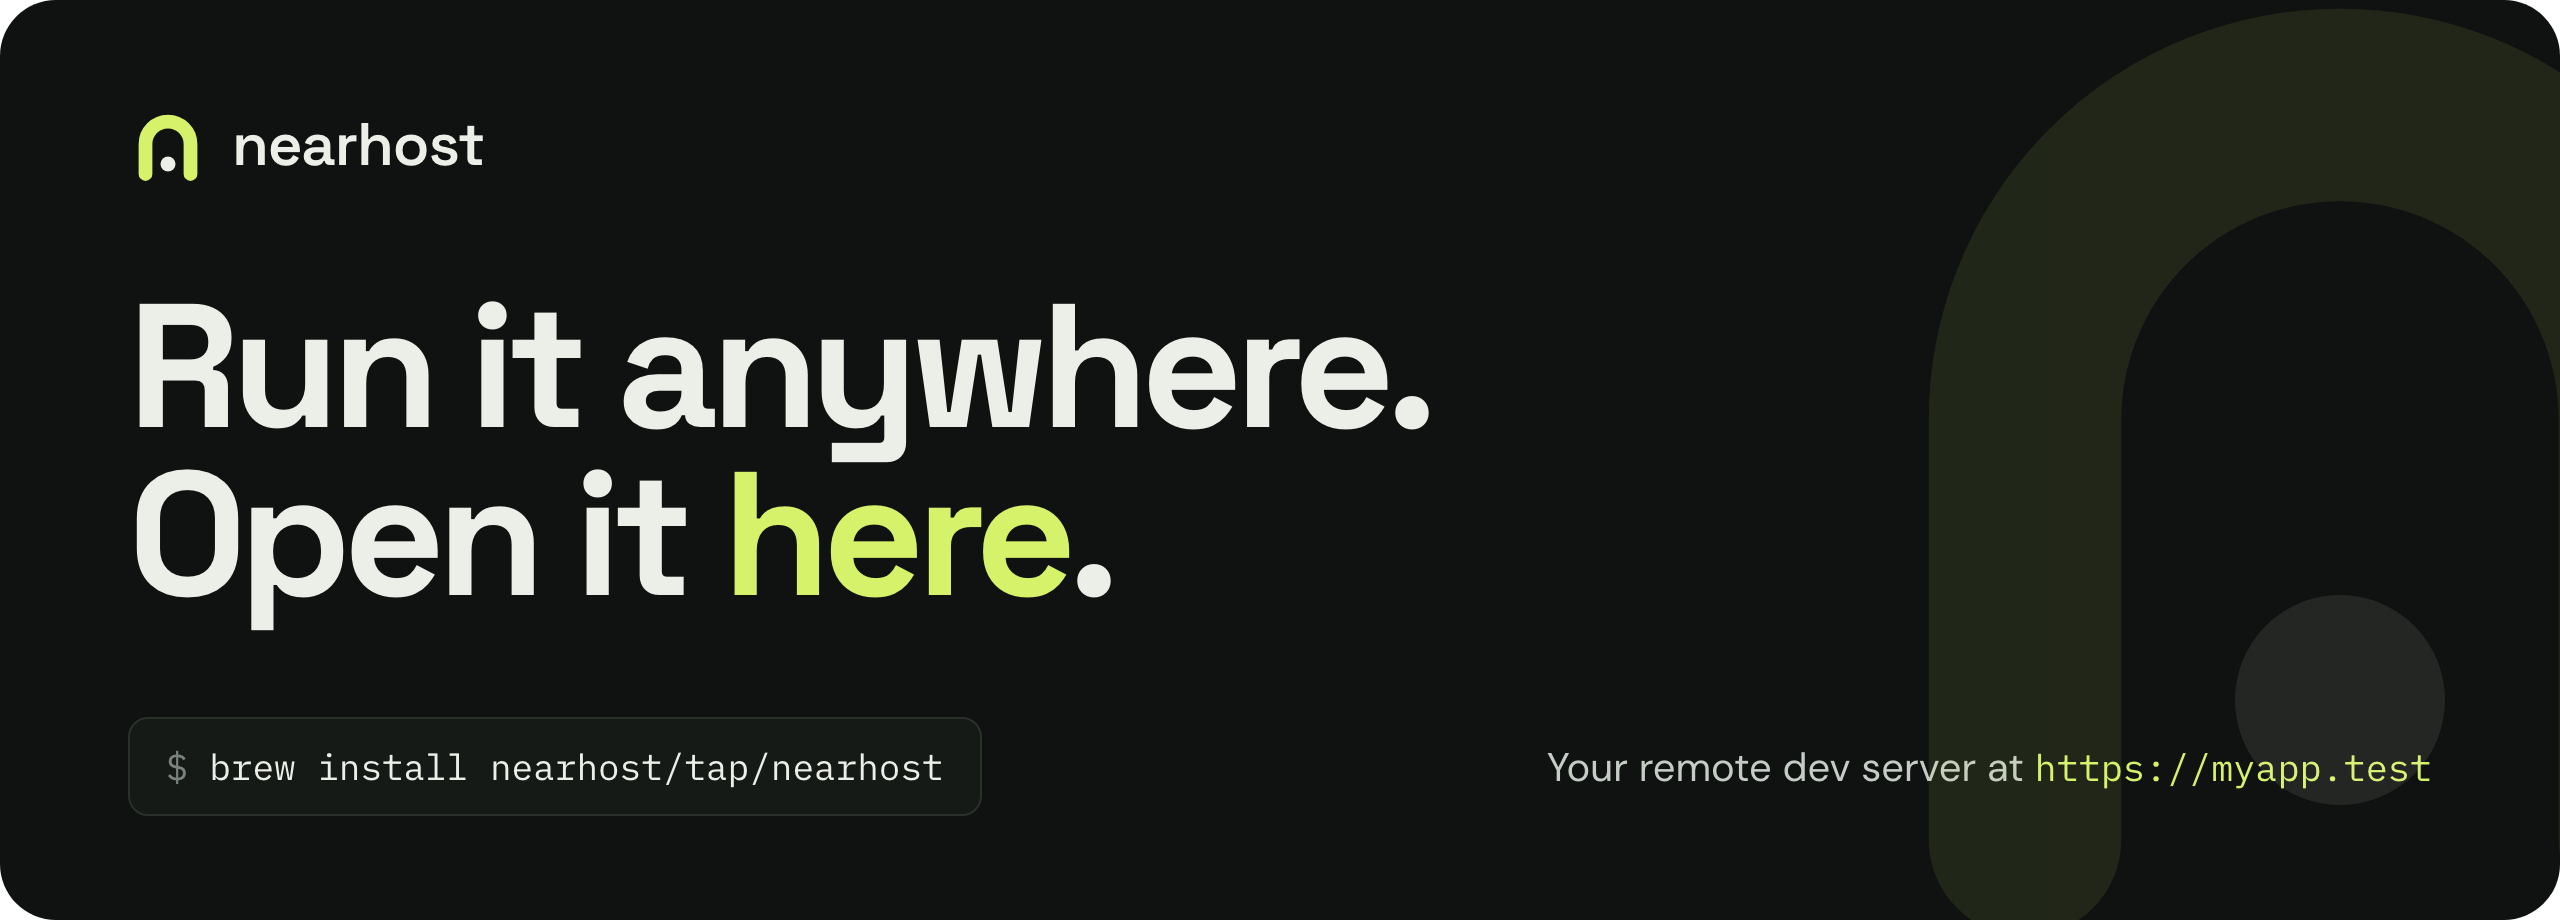
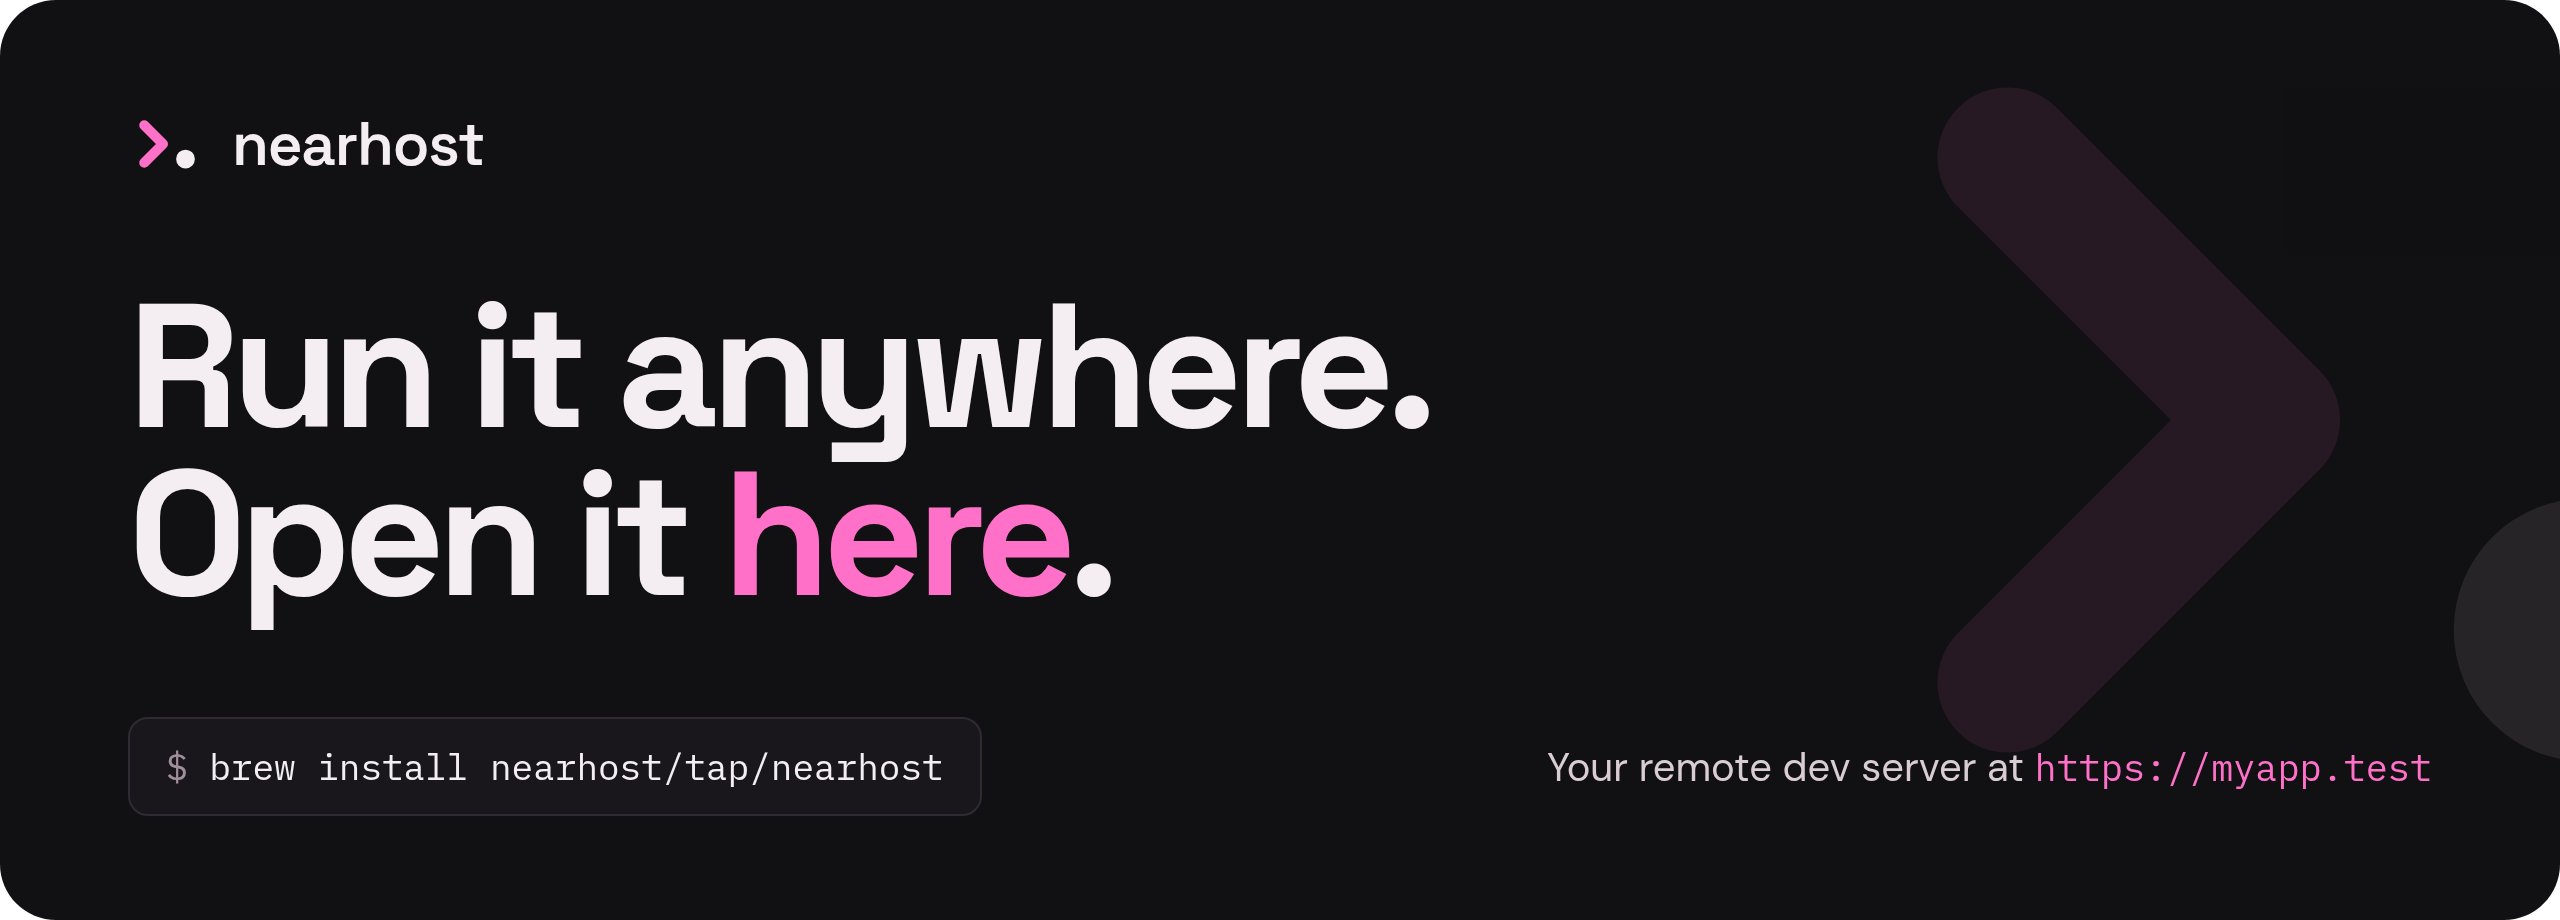
feat: README headers and screenshot in the new colours

diff --git a/assets/header.html b/assets/header.html
@@ -29,13 +29,13 @@
           format('woff2');
       }
       :root {
-        --ground: #0f1210;
-        --surface: #161a17;
-        --line: #2a312b;
-        --text: #ecefe8;
-        --body: #c5ccc6;
-        --faint: #7a837b;
-        --beacon: #d6f26b;
+        --ground: #111013;
+        --surface: #19171c;
+        --line: #2f2a33;
+        --text: #f4eef2;
+        --body: #d9ccd5;
+        --faint: #a08f9b;
+        --beacon: #ff70c8;
       }
       * {
         box-sizing: border-box;
@@ -121,13 +121,13 @@
   <body>
     <div class="card">
       <svg class="ghost" viewBox="0 0 64 64" aria-hidden="true">
-        <path d="M14 56V32a18 18 0 0 1 36 0v24" fill="none" stroke="#d6f26b" stroke-width="11" stroke-linecap="round" />
-        <circle cx="32" cy="48" r="6" fill="#ecefe8" />
+        <path d="M13 17l15 15-15 15" fill="none" stroke="#ff70c8" stroke-width="8" stroke-linecap="round" stroke-linejoin="round" />
+        <circle cx="46" cy="44" r="7.5" fill="#f4eef2" />
       </svg>
       <div class="lockup">
         <svg width="40" height="40" viewBox="0 0 64 64" aria-hidden="true">
-          <path d="M14 56V32a18 18 0 0 1 36 0v24" fill="none" stroke="#d6f26b" stroke-width="11" stroke-linecap="round" />
-          <circle cx="32" cy="48" r="6" fill="#ecefe8" />
+          <path d="M13 17l15 15-15 15" fill="none" stroke="#ff70c8" stroke-width="8" stroke-linecap="round" stroke-linejoin="round" />
+        <circle cx="46" cy="44" r="7.5" fill="#f4eef2" />
         </svg>
         <span class="word">nearhost</span>
       </div>
